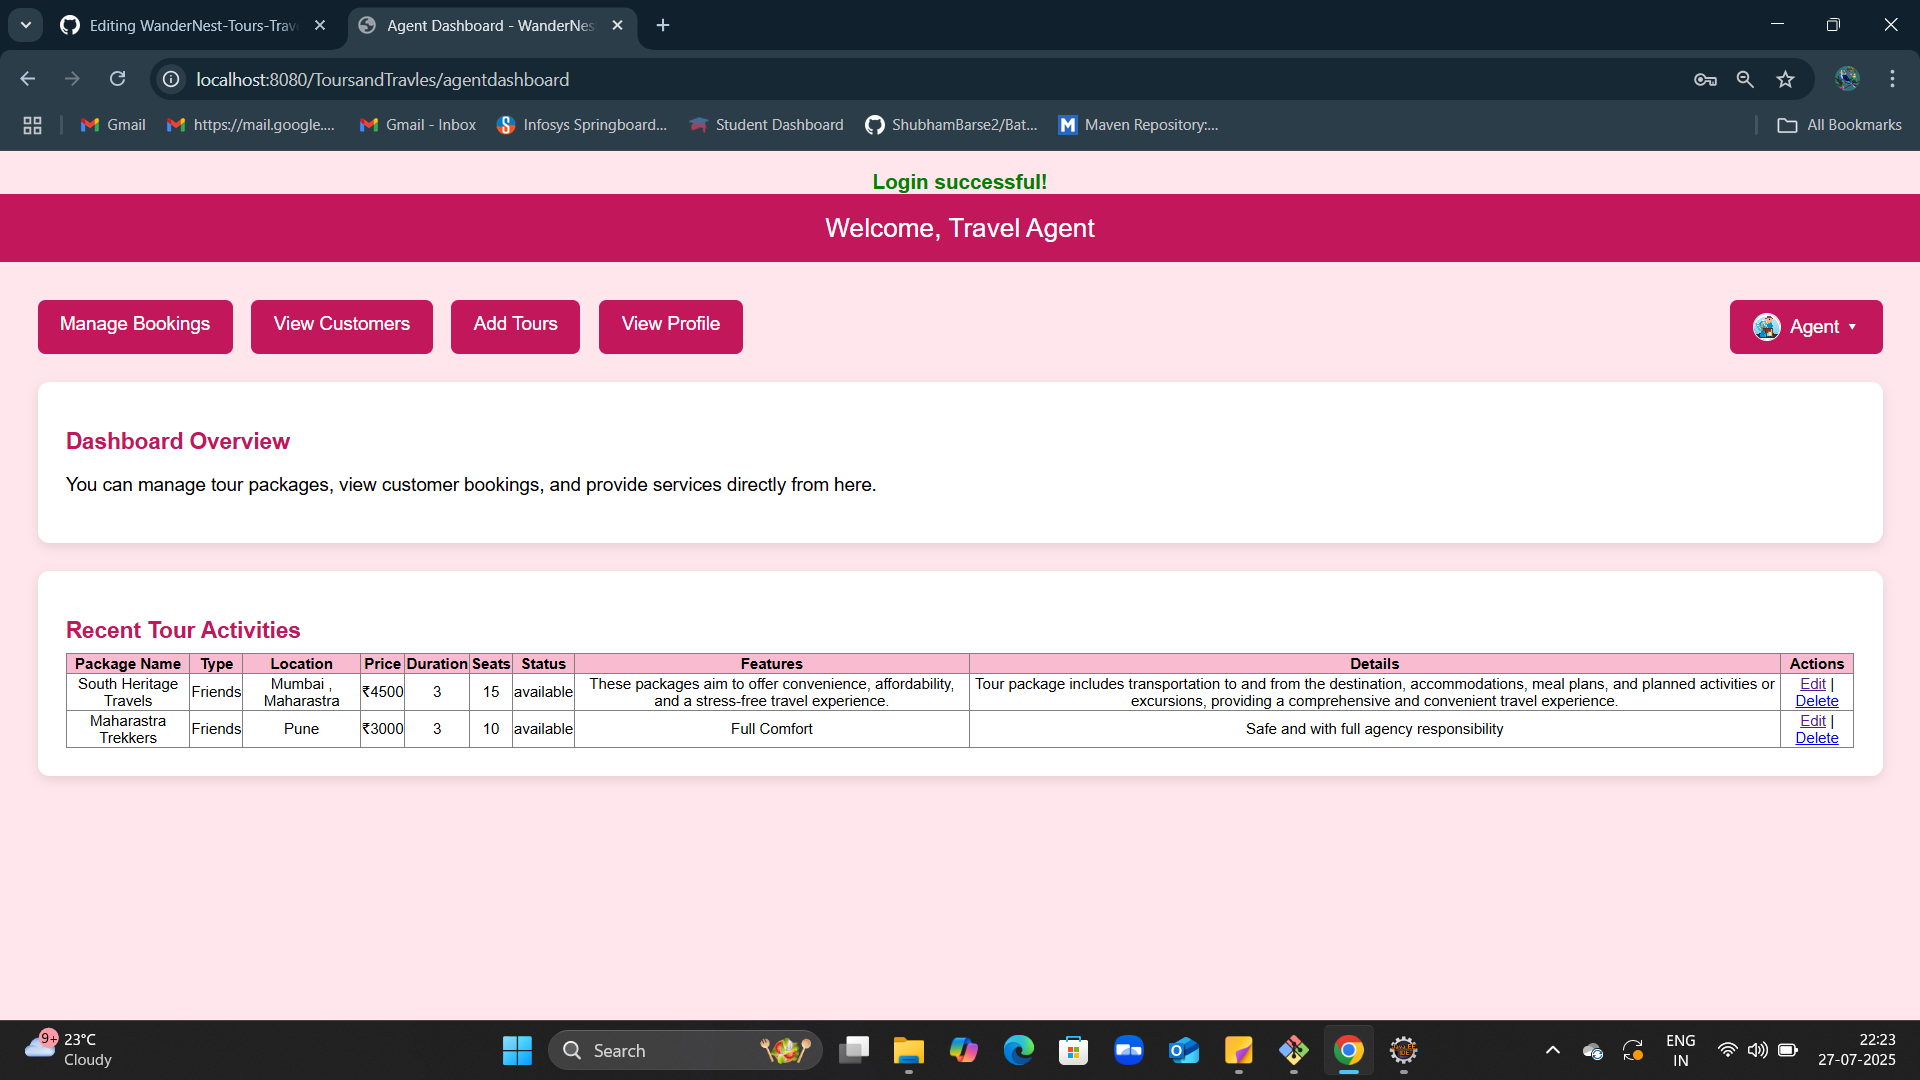
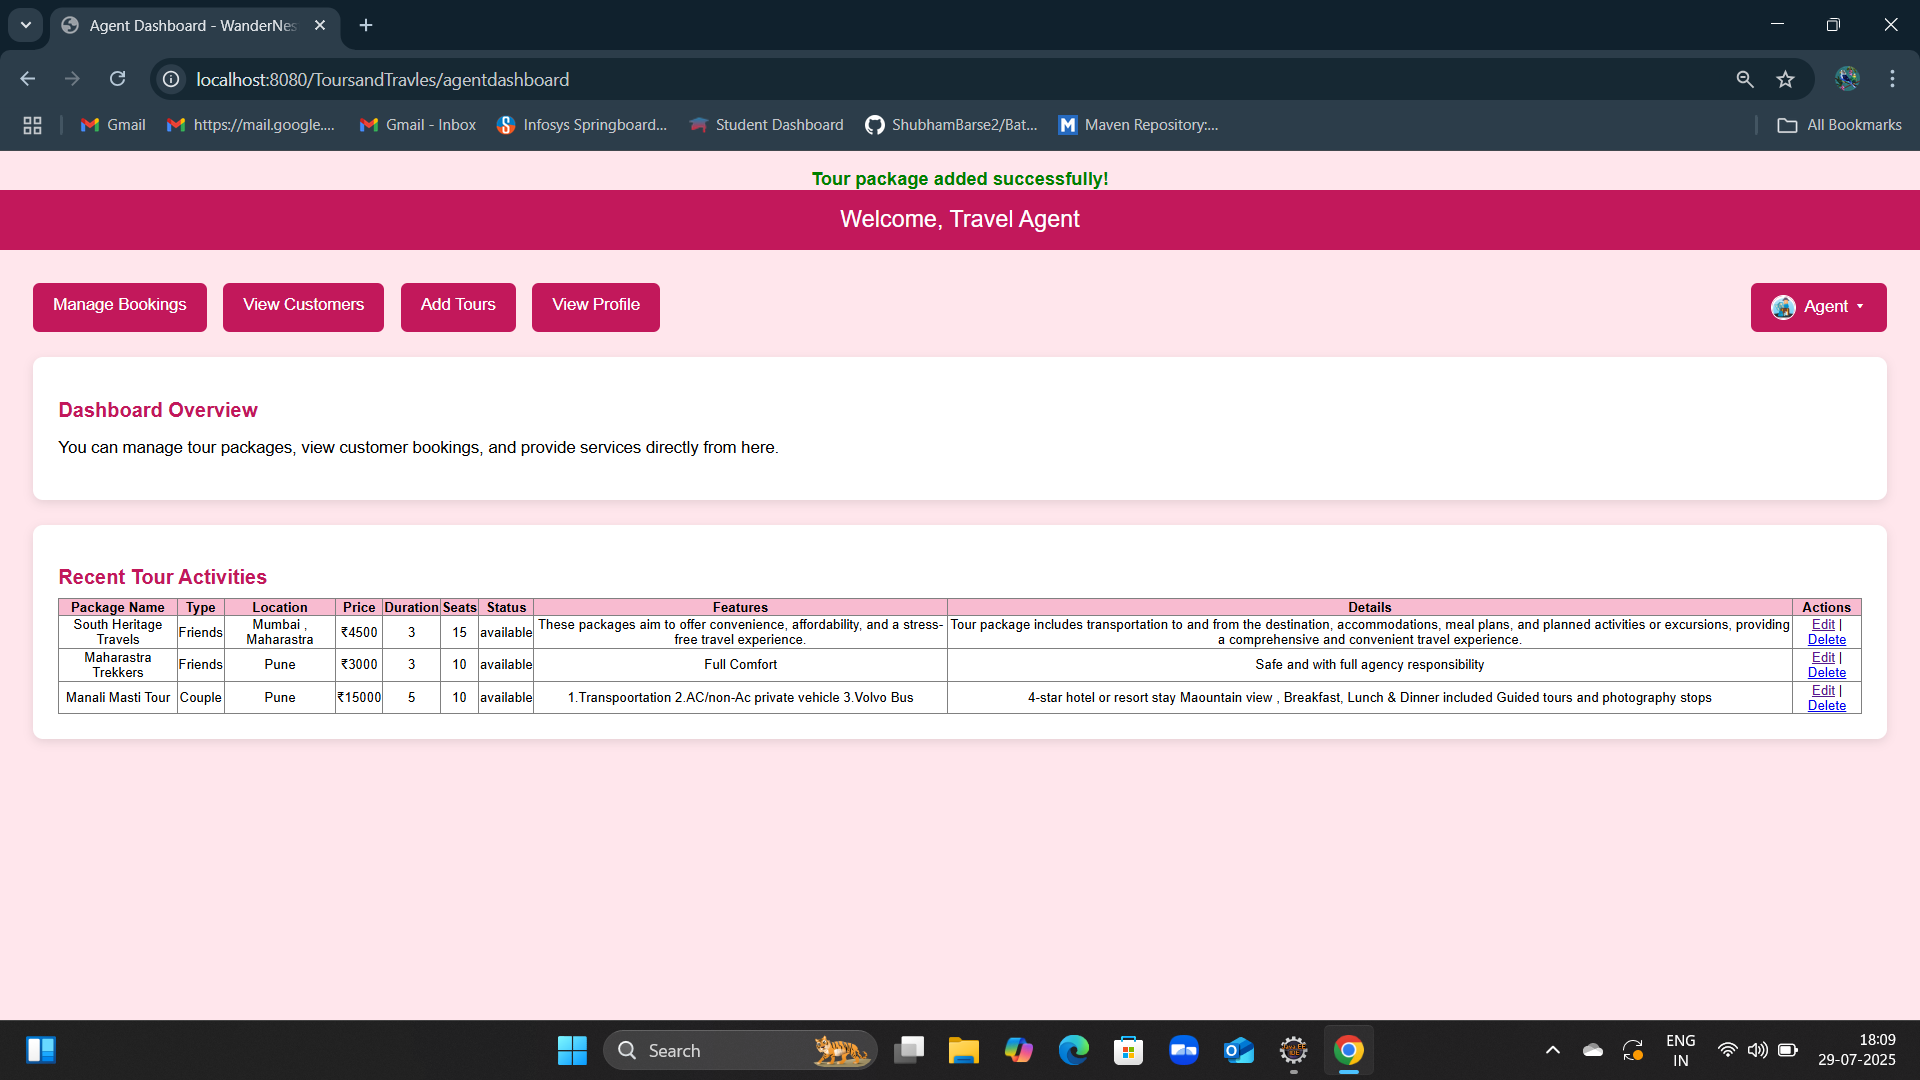
added files

diff --git a/src/main/java/com/customer/CustomerLoginServlet.java b/src/main/java/com/customer/CustomerLoginServlet.java
@@ -24,7 +24,7 @@ public class CustomerLoginServlet extends HttpServlet {
 			if (c != null) {
 				HttpSession session = req.getSession();
 				session.setAttribute("customer", c);
-				resp.sendRedirect("customerdashboard"); // 👉 Calls your dashboard servlet
+				resp.sendRedirect("customerdashboard"); 
 			} else {
 				resp.sendRedirect("customer-login.jsp?error=invalid");
 			}

diff --git a/src/main/java/com/dao/TourDao.java b/src/main/java/com/dao/TourDao.java
@@ -37,7 +37,7 @@ public class TourDao {
 		return list;
 	}
 
-	// ✅ New method: fetch single tour by name
+
 	public static Tour getTourByName(String name) throws Exception {
 		Class.forName("com.mysql.cj.jdbc.Driver");
 		Connection c = DriverManager.getConnection("jdbc:mysql://localhost:3306/wandernest", "root", "Payal@123");
